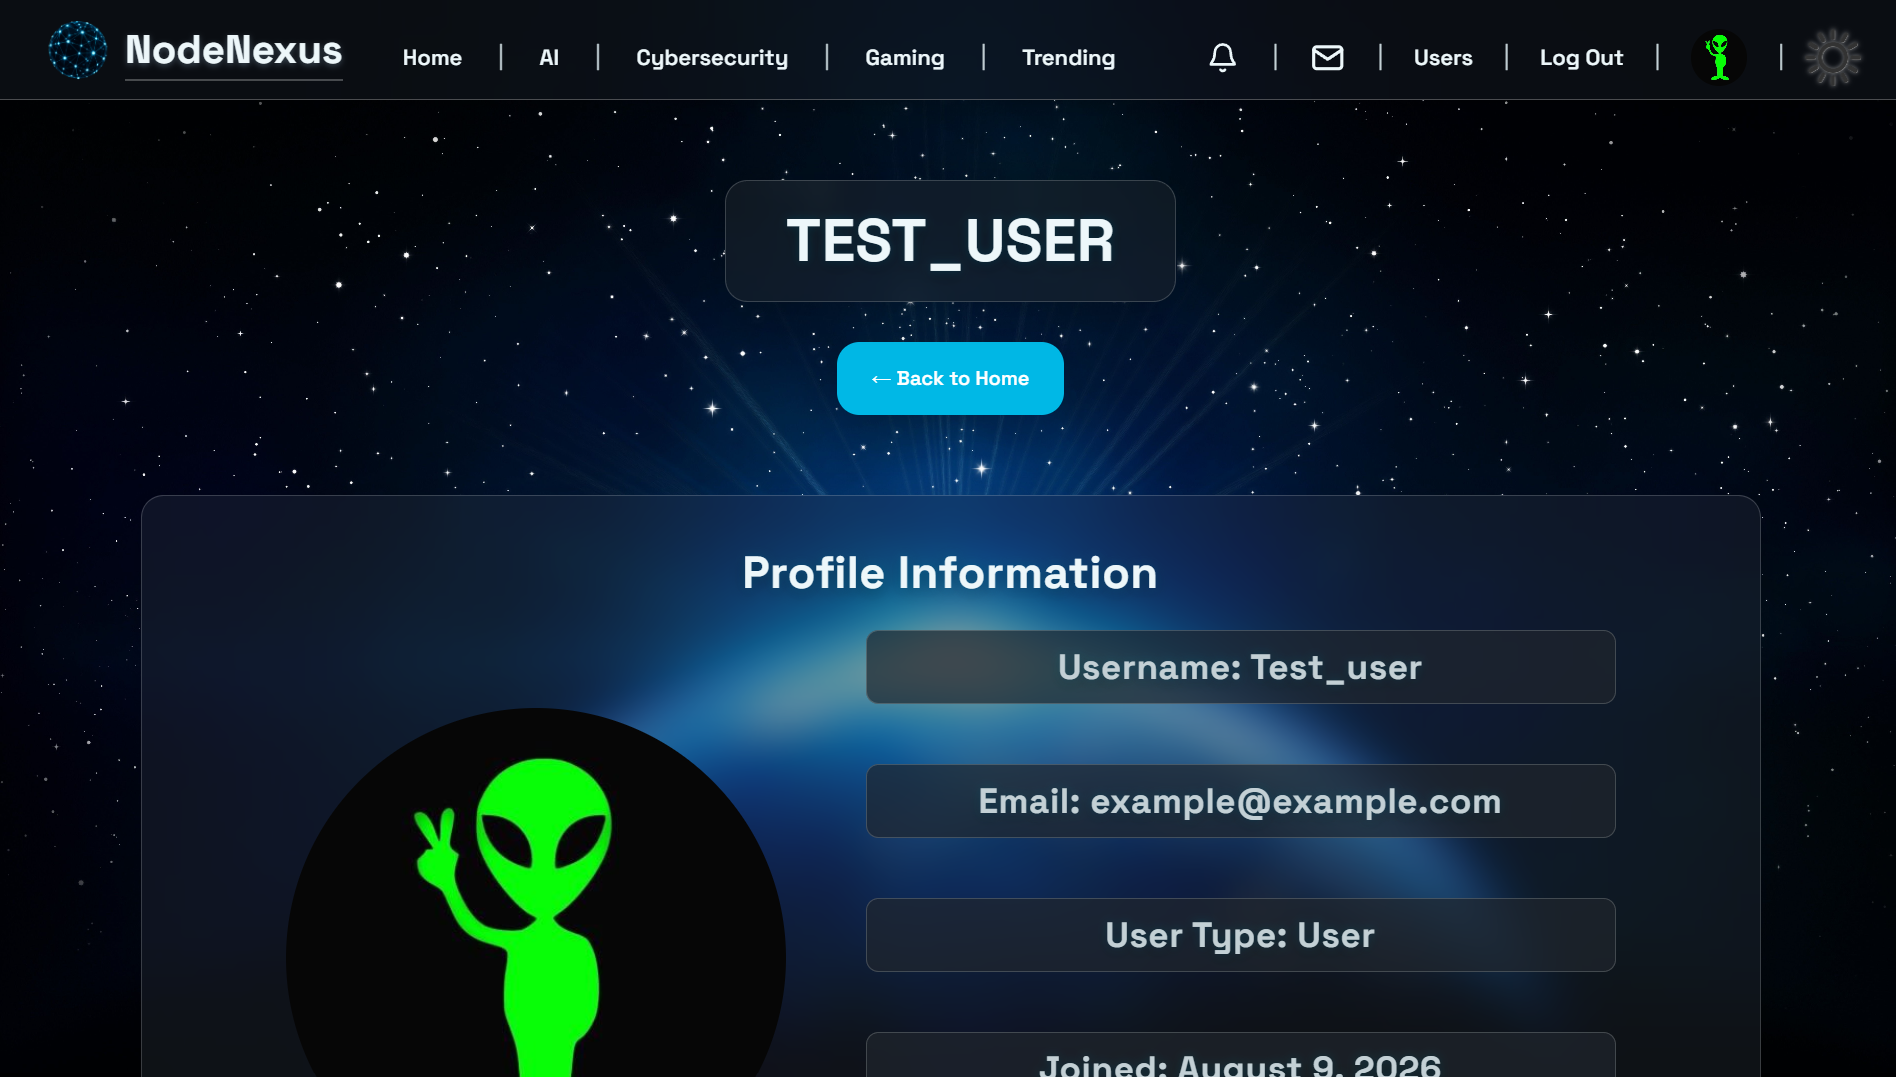
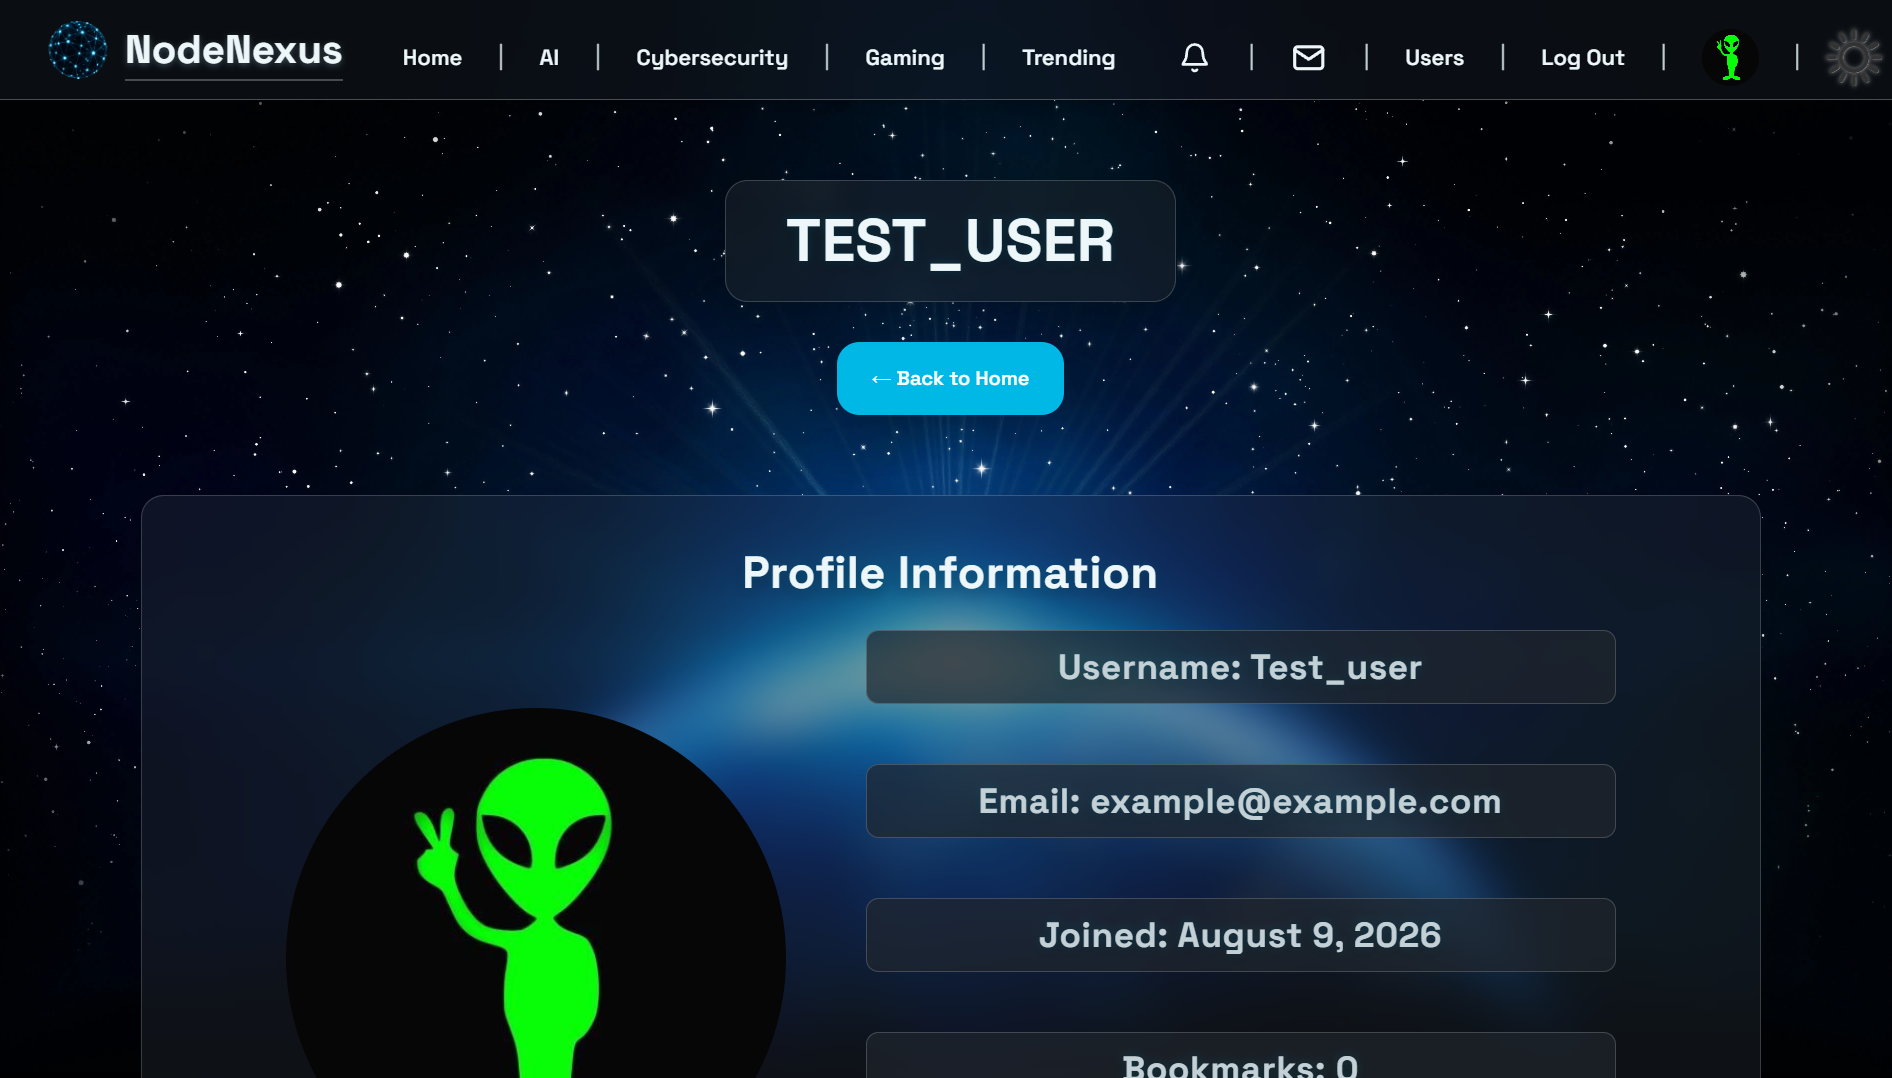
refactor: replace PNG images with WEBP format for better performance

diff --git a/frontend/src/static/css/style.css b/frontend/src/static/css/style.css
@@ -127,7 +127,7 @@ body {
     background:
     rgba(8,11,15,0.45);
     background-image:
-    url('/static/images/NodeNexus_BG_Dark.png');
+    url('/static/images/NodeNexus_BG_Dark.webp');
     background-size:cover;
     background-position:center;
     background-attachment:fixed;

diff --git a/frontend/src/components/navbar.html b/frontend/src/components/navbar.html
@@ -8,7 +8,7 @@
         <div class="logo-section">
 
 
-            <img src="{% static 'images/NodeNexusLogo.png' %}"
+            <img src="{% static 'images/NodeNexusLogo.webp' %}"
                  alt="NodeNexus Logo">
 
 

diff --git a/frontend/src/components/footer.html b/frontend/src/components/footer.html
@@ -3,7 +3,7 @@
 <footer class="footer">
 
 
-    <img src="{% static 'images/NodeNexusLogo.png' %}"
+    <img src="{% static 'images/NodeNexusLogo.webp' %}"
          class="footer-icon"
          alt="NodeNexus Logo">
 
